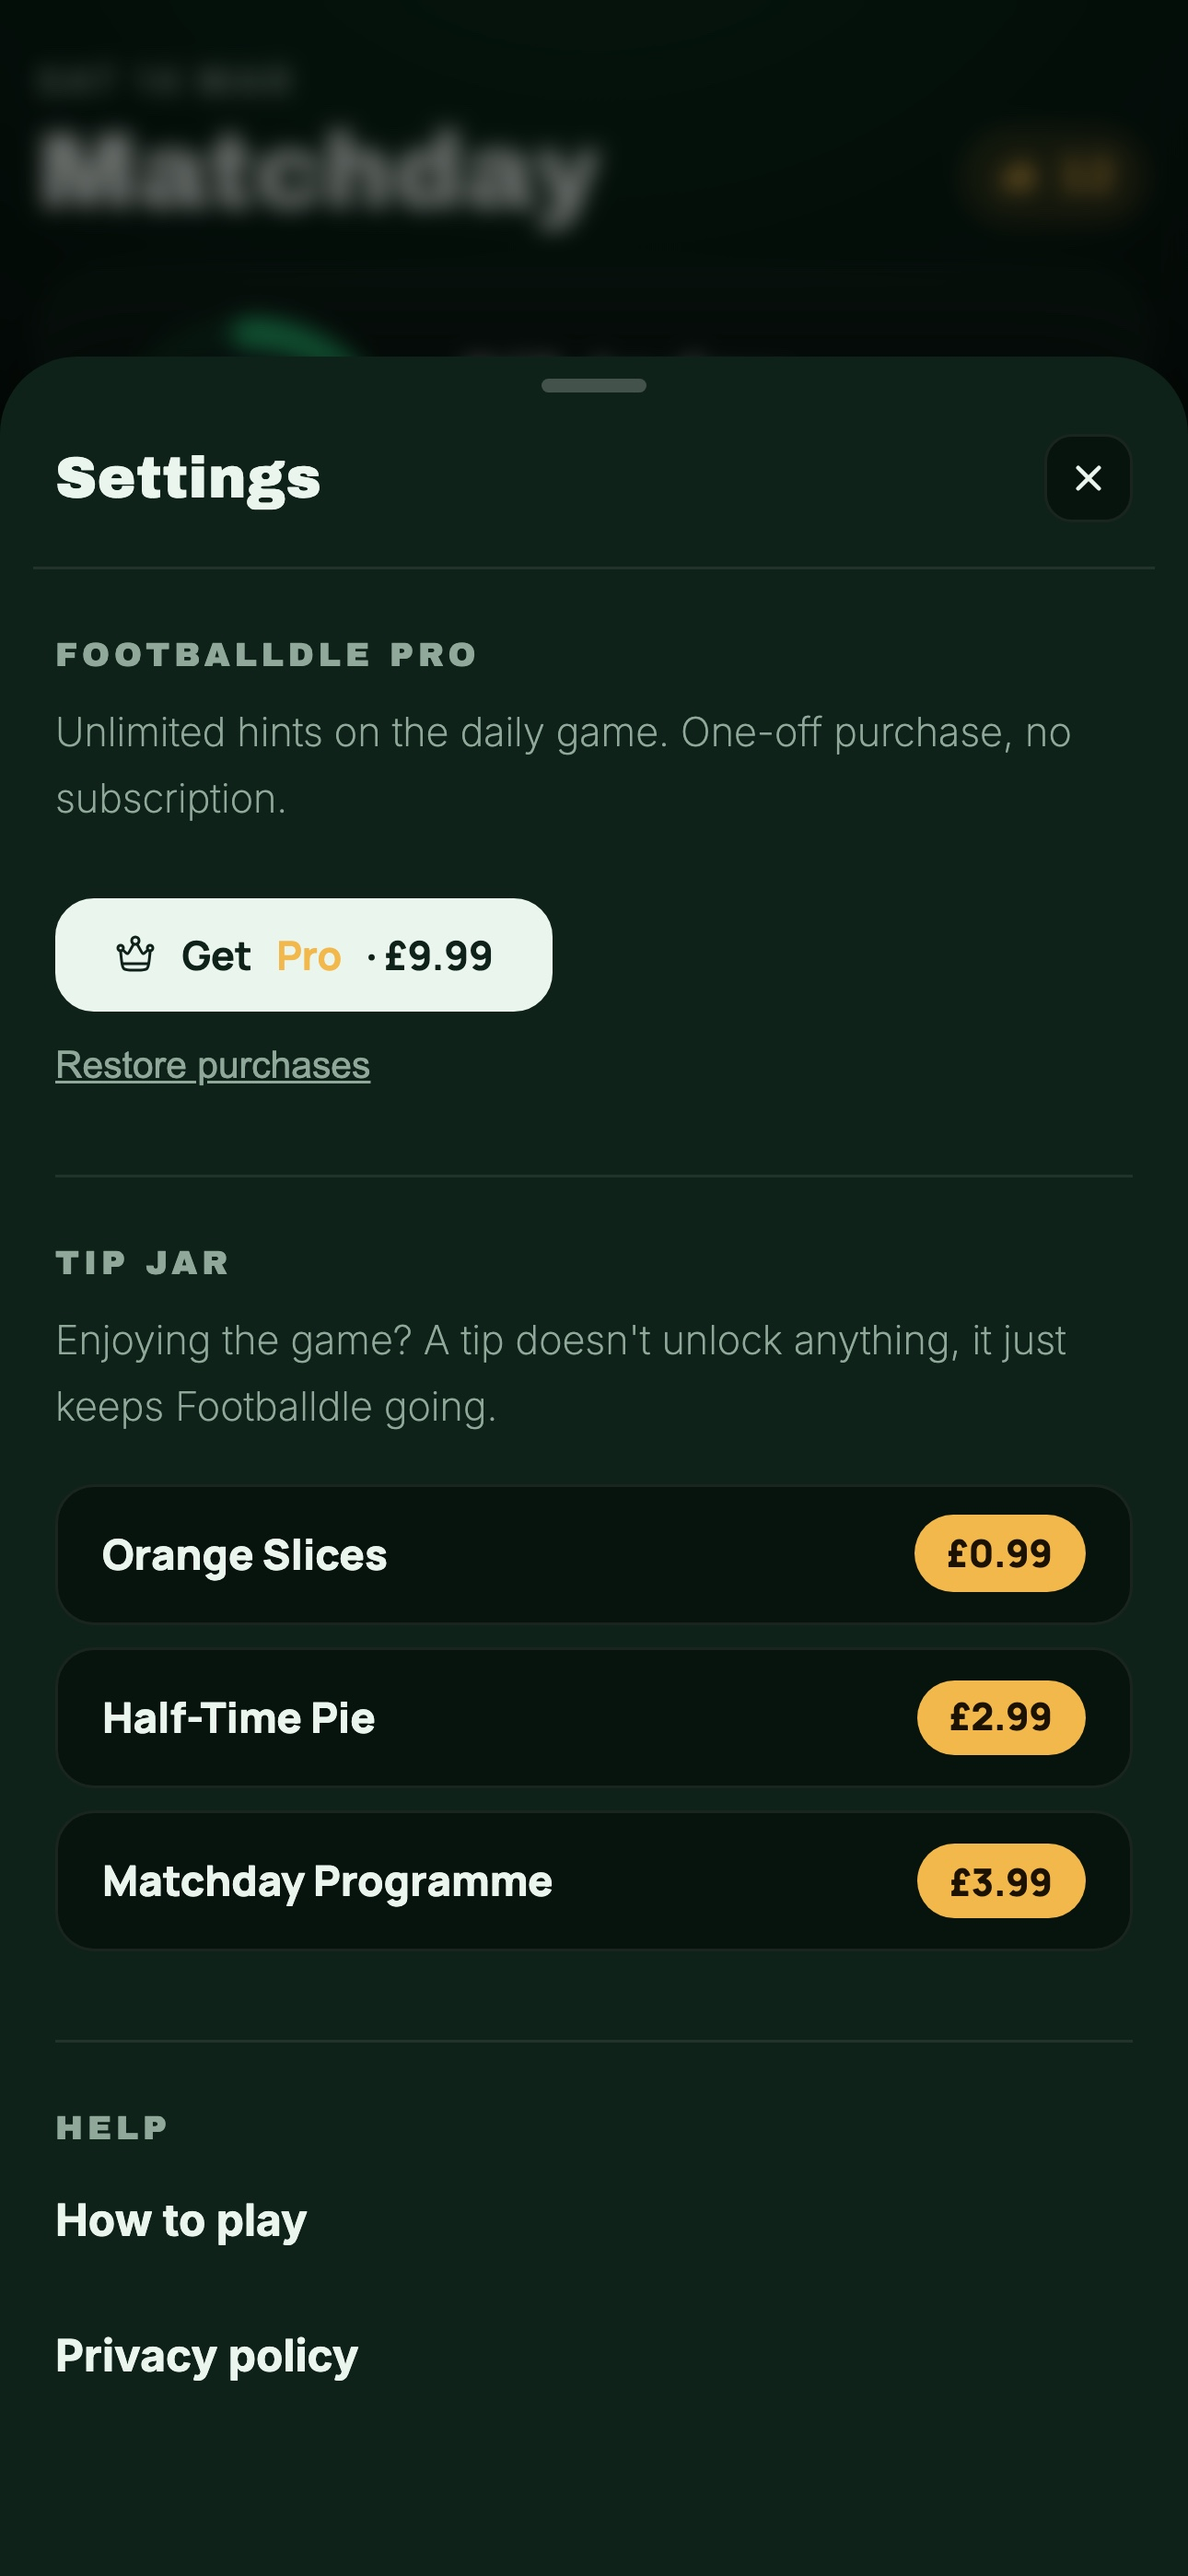
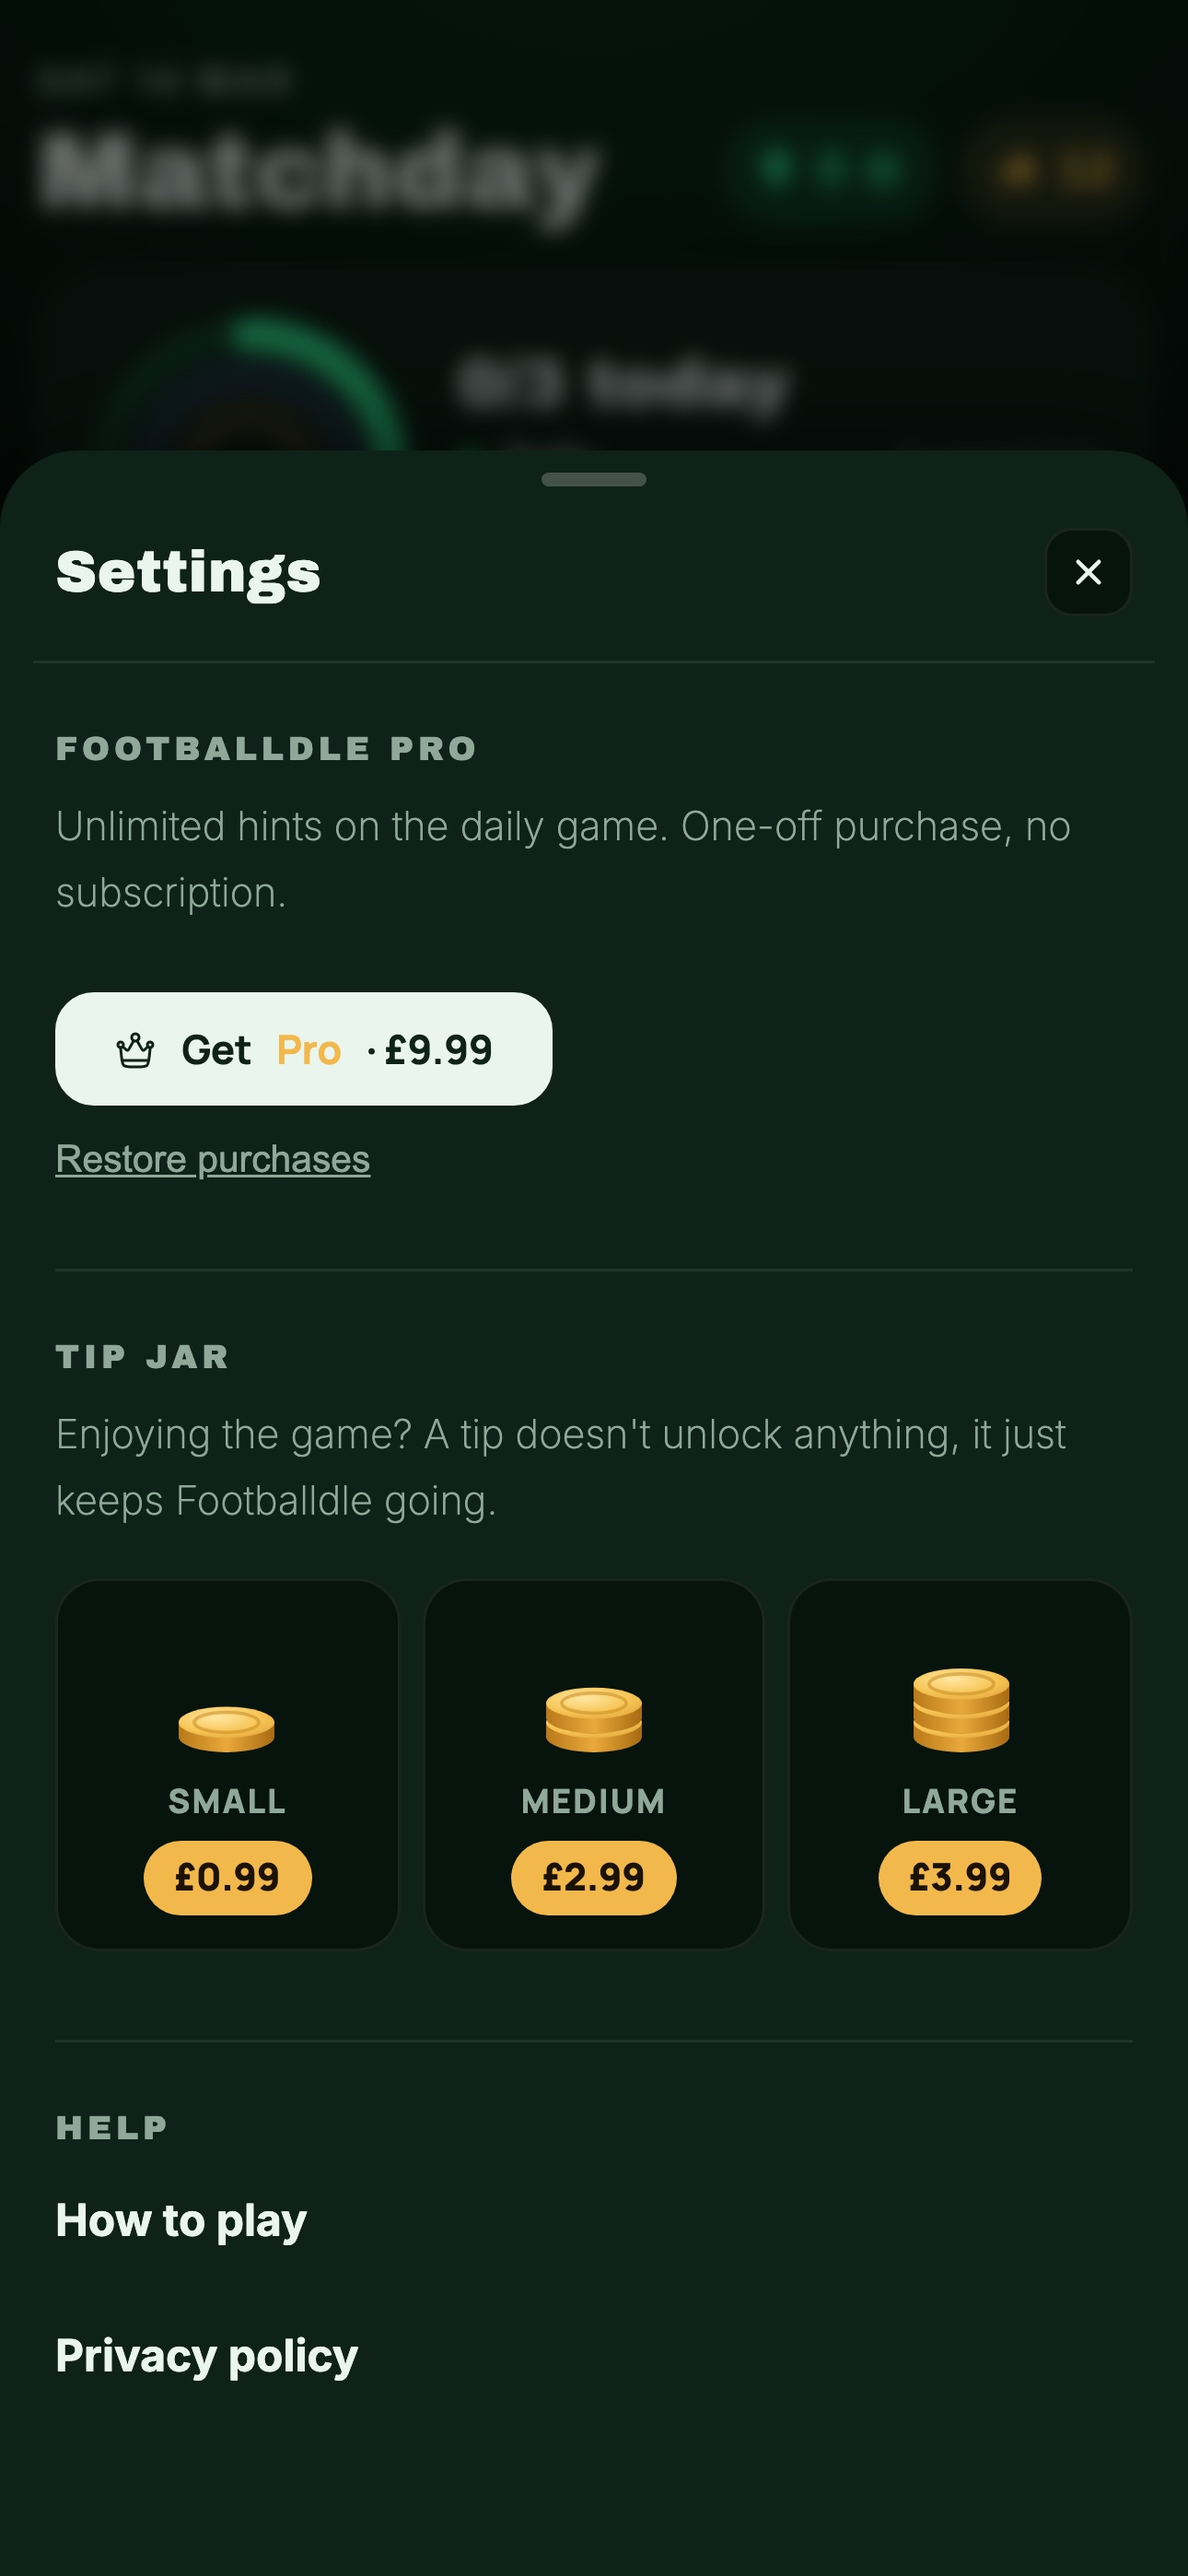
Tip jar: three coin-stack boxes and plain Small/Medium/Large names
Replace the list of novelty-named tips with three side-by-side boxes
showing one, two or three stacked coins, the size and the price.
Renamed in App Store Connect too, with a new review screenshot.

diff --git a/app/components/shared/ThemePickerSettings.vue b/app/components/shared/ThemePickerSettings.vue
@@ -140,14 +140,16 @@
 				<p>Enjoying the game? A tip doesn't unlock anything, it just keeps Footballdle going.</p>
 				<div class="tip-list">
 					<button
-						v-for="product in purchases.tipProducts"
+						v-for="(product, i) in purchases.tipProducts"
 						:key="product.identifier"
 						type="button"
 						class="tip-option"
 						:disabled="purchases.busy"
+						:aria-label="`${TIP_SIZES[i]} tip, ${product.priceString}`"
 						@click="purchases.tip(product)"
 					>
-						<span class="tip-name">{{ product.title }}</span>
+						<CoinStack :count="i + 1" />
+						<span class="tip-name">{{ TIP_SIZES[i] }}</span>
 						<span class="tip-price">{{ product.priceString }}</span>
 					</button>
 				</div>
@@ -205,6 +207,10 @@
 	import { usePurchasesStore } from '../../stores/purchases'
 	import { useGameCenter } from '../../composables/useGameCenter'
 	import { useModalsStore } from '../../stores/modals'
+	import CoinStack from './CoinStack.vue'
+
+	// Tip products come in order small, medium, large (TIP_PRODUCT_IDS)
+	const TIP_SIZES = ['Small', 'Medium', 'Large']
 
 	const themeStore = useThemeStore()
 	const purchases = usePurchasesStore()
@@ -263,9 +269,9 @@
 
 			// Tip names come from App Store Connect, so they can be renamed without a release
 			.tip-list {
-				display: flex;
-				flex-direction: column;
+				display: grid;
 				gap: 0.5rem;
+				grid-template-columns: repeat(3, 1fr);
 				width: 100%;
 			}
 
@@ -273,22 +279,30 @@
 				align-items: center;
 				background: var(--bg-primary);
 				border: 1px solid var(--border);
-				border-radius: 14px;
+				border-radius: 16px;
 				color: var(--text-primary);
 				cursor: pointer;
 				display: flex;
+				flex-direction: column;
 				font-family: var(--font-body);
-				justify-content: space-between;
-				min-height: 3.2rem;
-				padding: 0 1rem;
+				gap: 0.35rem;
+				padding: 0.85rem 0.4rem 0.75rem;
+				transition: transform 0.1s ease;
+
+				&:active:not(:disabled) {
+					transform: scale(0.96);
+				}
 
 				&:disabled {
 					opacity: 0.6;
 				}
 
 				.tip-name {
-					font-size: 0.95rem;
+					color: var(--text-secondary);
+					font-size: 0.75rem;
 					font-weight: 800;
+					letter-spacing: 0.06em;
+					text-transform: uppercase;
 				}
 
 				.tip-price {
@@ -297,7 +311,7 @@
 					color: var(--on-present, #fff);
 					font-size: 0.85rem;
 					font-weight: 800;
-					padding: 0.3rem 0.75rem;
+					padding: 0.3rem 0.7rem;
 				}
 			}
 

diff --git a/app/components/shared/CoinStack.vue b/app/components/shared/CoinStack.vue
@@ -1,0 +1,88 @@
+<template>
+	<svg
+		class="coin-stack"
+		viewBox="0 0 60 60"
+		aria-hidden="true"
+	>
+		<defs>
+			<linearGradient
+				id="coin-side"
+				x1="0"
+				x2="1"
+			>
+				<stop
+					offset="0"
+					stop-color="#B9791A"
+				/>
+				<stop
+					offset=".5"
+					stop-color="#E9A93A"
+				/>
+				<stop
+					offset="1"
+					stop-color="#A86A12"
+				/>
+			</linearGradient>
+			<radialGradient
+				id="coin-face"
+				cx=".4"
+				cy=".35"
+				r=".8"
+			>
+				<stop
+					offset="0"
+					stop-color="#FFE7A3"
+				/>
+				<stop
+					offset=".6"
+					stop-color="#F6C453"
+				/>
+				<stop
+					offset="1"
+					stop-color="#E0A23A"
+				/>
+			</radialGradient>
+		</defs>
+		<!-- Drawn bottom-up so each coin sits on the one below -->
+		<g
+			v-for="i in count"
+			:key="i"
+			:transform="`translate(0 ${-(i - 1) * 8})`"
+		>
+			<path
+				d="M10 44 v6 a20 6.5 0 0 0 40 0 v-6 z"
+				fill="url(#coin-side)"
+			/>
+			<ellipse
+				cx="30"
+				cy="44"
+				rx="20"
+				ry="6.5"
+				fill="url(#coin-face)"
+			/>
+			<ellipse
+				cx="30"
+				cy="44"
+				rx="13.5"
+				ry="4.2"
+				fill="none"
+				stroke="#C98A22"
+				stroke-opacity=".55"
+				stroke-width="1.4"
+			/>
+		</g>
+	</svg>
+</template>
+
+<script setup lang="ts">
+	// Tip jar artwork: 1, 2 or 3 stacked gold coins
+	defineProps<{ count: number }>()
+</script>
+
+<style scoped>
+	.coin-stack {
+		display: block;
+		height: 3.25rem;
+		width: 3.25rem;
+	}
+</style>

diff --git a/APP_STORE_SETUP.md b/APP_STORE_SETUP.md
@@ -117,9 +117,9 @@ App Store Connect → your app → **Monetization → In-App Purchases** → **+
 | Consumable | 1 Hint | `fh1` | £0.99 |
 | Consumable | 5 Hints | `fh5` | £2.99 |
 | Consumable | 15 Hints | `fh15` | £7.99 |
-| Consumable | Orange Slices (tip) | `fts` | £0.99 |
-| Consumable | Half-Time Pie (tip) | `ftm` | £2.99 |
-| Consumable | Matchday Programme (tip) | `ftl` | £3.99 |
+| Consumable | Small Tip | `fts` | £0.99 |
+| Consumable | Medium Tip | `ftm` | £2.99 |
+| Consumable | Large Tip | `ftl` | £3.99 |
 
 For each one, add an English (UK) display name and description, plus a **review screenshot**
 (a screenshot of the Settings screen showing the buttons, taken from TestFlight).
